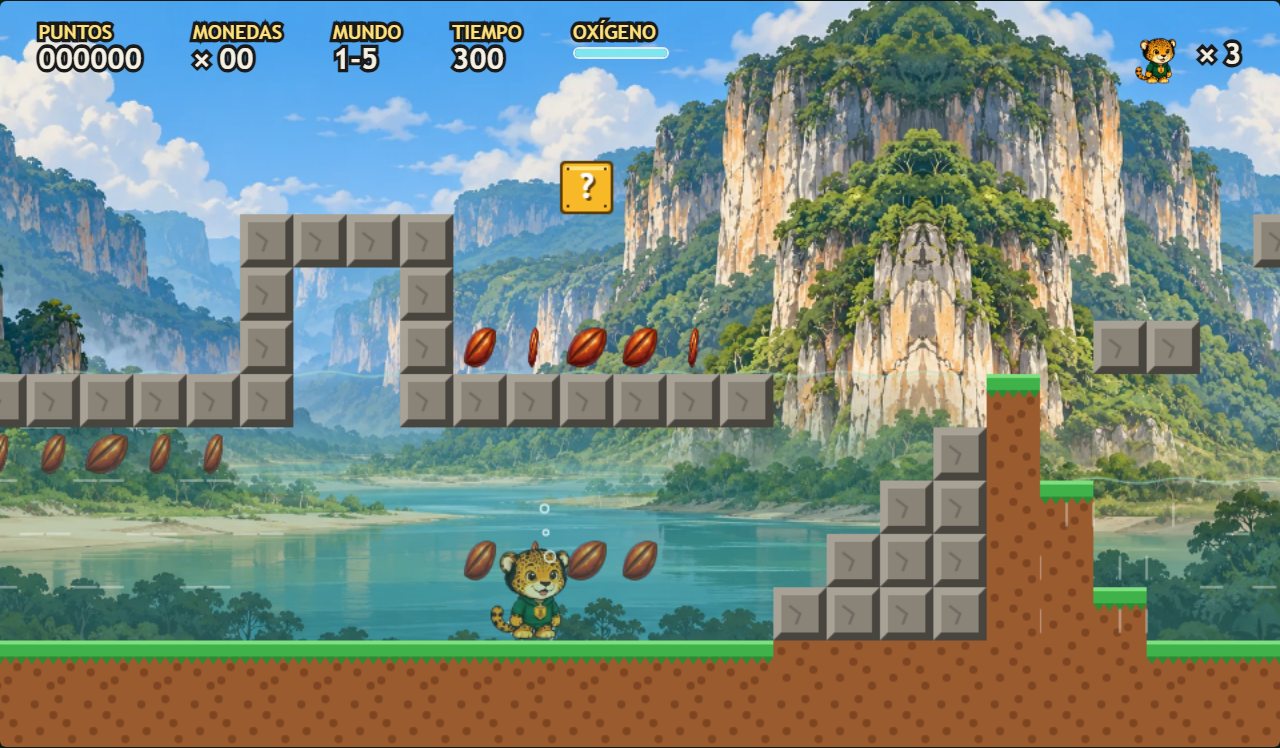
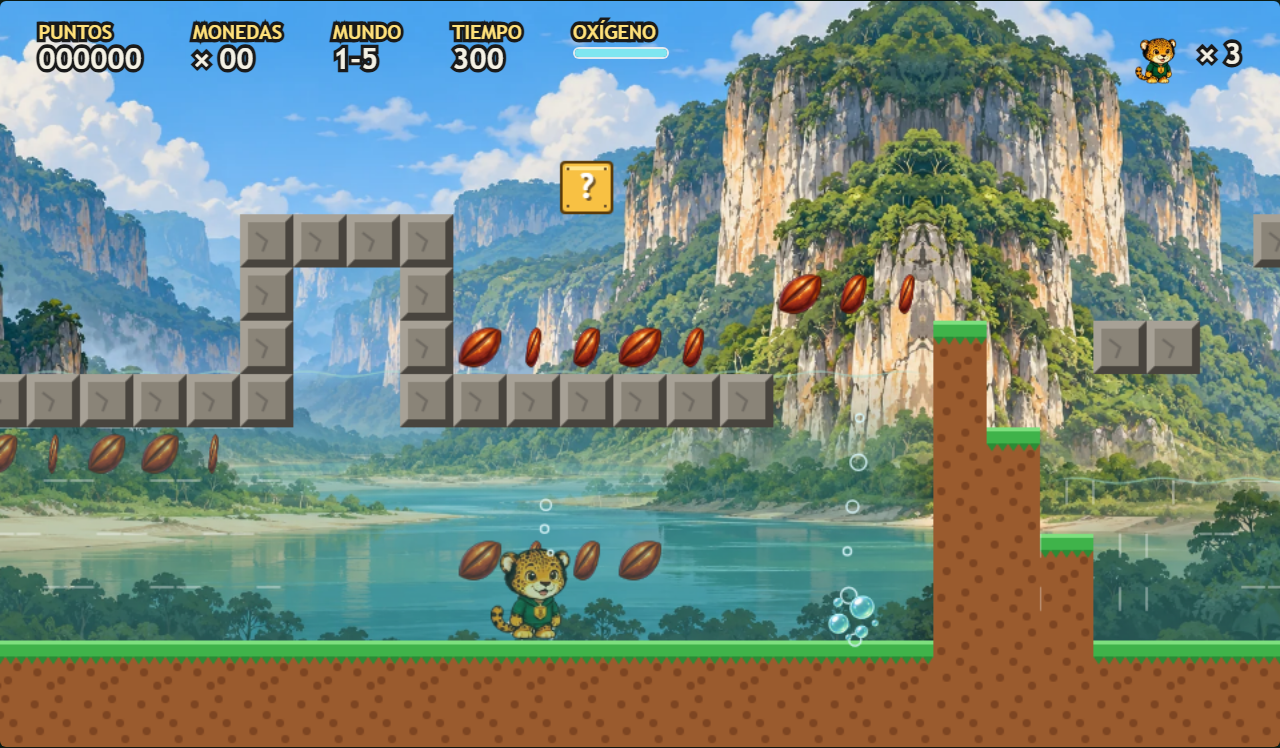
fix: añade salida superior y pared sólida al túnel de Candelaria

diff --git a/src/data/levels/world1/1-5-candelaria.ts b/src/data/levels/world1/1-5-candelaria.ts
@@ -2,21 +2,26 @@ import type { LevelDef, Op } from '../../../engine/level/types';
 import { barracudas, nauyaca, urchin } from '../helpers';
 import { waterBank } from '../waterBanks';
 
-/** Túnel submarino: techo de roca en la fila 7 entre estas columnas (inclusive). */
+/** Túnel submarino: techo de roca en la fila 7, con una salida abierta al final. */
 const TUNNEL_X0 = 97;
-const TUNNEL_X1 = 140;
+const TUNNEL_X1 = 143;
 /** Fila del techo del túnel (también es la superficie del agua). */
 const TUNNEL_CEIL = 7;
-/** El agua continúa tras el techo para subir la escalera sin quedar encerrado. */
-const TUNNEL_EXIT_X = 145;
+/** Hueco de tres bloques para emerger antes de saltar sobre la pared sólida. */
+const EXIT_OPENING_X = 141;
+const EXIT_WALL_X = TUNNEL_X1 + 1;
+const EXIT_WALL_TOP = TUNNEL_CEIL - 1;
 /** Columna izquierda de cada bolsa de aire (2 columnas de ancho). */
 const AIR_POCKETS = [107, 120, 132] as const;
 
 const inPocket = (x: number): boolean => AIR_POCKETS.some((p) => x === p || x === p + 1);
 
-/** Techo del túnel con huecos donde están las bolsas de aire. */
+/** Techo con bolsas de aire cerradas y una abertura final hacia el exterior. */
 const tunnelCeiling = (): Op => {
-  const blocks = Array.from({ length: TUNNEL_X1 - TUNNEL_X0 + 1 }, (_, i) => (inPocket(TUNNEL_X0 + i) ? ' ' : 'X'));
+  const blocks = Array.from({ length: TUNNEL_X1 - TUNNEL_X0 + 1 }, (_, i) => {
+    const x = TUNNEL_X0 + i;
+    return inPocket(x) || x >= EXIT_OPENING_X ? ' ' : 'X';
+  });
   return ['row', TUNNEL_X0, TUNNEL_CEIL, blocks.join('')];
 };
 
@@ -39,12 +44,12 @@ const rockWall = (x: number, y1: number): Op[] =>
  *  46-79     Rápidos: tres tramos de río con troncos (plataformas) y corrientes que
  *            empujan a la derecha (3 → 4 → 4.5 bloques/s); barracudas saltando.
  *  80-91     Orilla de descanso con el punto de control de Toh (columna 84).
- *  92-140    Túnel submarino: se bucea bajo un muro de roca; corrientes que llevan
+ *  92-143    Túnel submarino: se bucea bajo un muro de roca; corrientes que llevan
  *            hacia erizos, contracorriente con barracuda, 3 bolsas de aire y un
  *            respiradero de burbujas (OXYGEN_MAX = 10 s; tramos de ~11 bloques).
  *            Premio oculto: monedas y un `?` sobre el techo del túnel (se vuelve
- *            desde lo alto de la escalera de salida).
- * 141-160    Salida por la cascada: escalera, poza al pie de la cascada y troncos
+ *            desde la abertura de salida).
+ * 141-160    Salida superior: hueco de luz antes de una pared sólida, poza y troncos
  *            altos con un corazón de jade.
  * 161-199    Recta final hasta la bandera y el templo.
  */
@@ -78,7 +83,7 @@ export const LEVEL_1_5: LevelDef = {
     ['row', 86, 8, 'B?M'], ['row', 89, 5, '?'], ['row', 90, 3, 'B'], ['coins', 87, 4, 3],
 
     // --- Túnel submarino ---
-    ['water', 92, TUNNEL_EXIT_X - 1, TUNNEL_CEIL],
+    ['water', 92, TUNNEL_X1, TUNNEL_CEIL],
     ['current', 92, 95, TUNNEL_CEIL, 9, 0, 2], // remolino que ayuda a bucear
     ...rockWall(96, TUNNEL_CEIL - 1),
     tunnelCeiling(),
@@ -93,8 +98,9 @@ export const LEVEL_1_5: LevelDef = {
     // Premio oculto sobre el techo del túnel.
     ['coins', 135, 6, 5], ['row', 137, 3, '?'],
 
-    // --- Salida por la cascada ---
-    ['stairs', 141, 5, 1],
+    // La pared cierra el agua; el hueco superior deja emerger y saltar por encima.
+    ['coins', EXIT_OPENING_X, 5, 3], ['bubbles', 142, 11],
+    // --- Poza de la cascada ---
     ['water', 146, 151, 9], ['current', 146, 148, 9, 11, 0, 3], // la cascada hunde
     ['current', 149, 151, 9, 11, 1.5, 0], // y luego arrastra hacia la salida
     ['plat', 147, 6, 2], ['plat', 150, 4, 2], ['row', 151, 1, 'L'],
@@ -112,6 +118,6 @@ export const LEVEL_1_5: LevelDef = {
     ...waterBank(45, 11, 1), ...waterBank(53, 11, -1),
     ...waterBank(56, 11, 1), ...waterBank(65, 11, -1),
     ...waterBank(69, 11, 1), ...waterBank(80, 11, -1),
-    ...waterBank(91, 7, 1), ...waterBank(TUNNEL_EXIT_X, TUNNEL_CEIL, -1), ...waterBank(152, 9, -1),
+    ...waterBank(91, 7, 1), ...waterBank(EXIT_WALL_X, EXIT_WALL_TOP, -1), ...waterBank(152, 9, -1),
   ],
 };

diff --git a/src/engine/World1Water.test.ts b/src/engine/World1Water.test.ts
@@ -45,13 +45,32 @@ describe('salidas del agua del Mundo 1', () => {
     },
   );
 
-  it.each([132.1, 136, 139.1, 140.1])('1-5 permite salir del túnel desde %s hacia la escalera', x => {
+  it.each([132.1, 136, 139.1, 140.1, 142.1])('1-5 permite salir del túnel desde %s por el hueco superior', x => {
     const world = submerged('1-5', x, GROUND);
     const p = world.player;
-    const escaped = () => p.x >= 145 * T && p.onGround && !p.swimming;
+    let emergedThroughOpening = false;
+    const escaped = () => {
+      if (p.x >= 141 * T && p.x < 144 * T && p.y + p.h <= 6 * T) emergedThroughOpening = true;
+      return p.x >= 144 * T && p.onGround && !p.swimming;
+    };
     swimRightUntil(world, escaped);
     expect(world.phase).toBe('play');
     expect(escaped(), `sin salida en ${p.x / T},${p.y / T}`).toBe(true);
+    expect(emergedThroughOpening).toBe(true);
     expect(p.oxygen).toBeGreaterThan(0);
+  });
+
+  it('1-5 contiene el agua con una pared y deja libre el hueco de arriba', () => {
+    const world = submerged('1-5', 142.1, GROUND);
+    for (let y = 6; y < ROWS; y++) expect(world.solid(144, y)).toBe(true);
+    for (const x of [141, 142, 143]) {
+      for (let y = 0; y < GROUND; y++) expect(world.solid(x, y)).toBe(false);
+    }
+    const initialY = world.player.y;
+    world.input.press('right');
+    for (let step = 0; step < 2 / STEP; step++) world.update(STEP);
+    expect(world.phase).toBe('play');
+    expect(Math.floor((world.player.x + world.player.w - 1) / T)).toBeLessThan(144);
+    expect(world.player.y).toBeCloseTo(initialY);
   });
 });

diff --git a/imagenes/verify_world1_water.py b/imagenes/verify_world1_water.py
@@ -82,6 +82,13 @@ with sync_playwright() as playwright:
           w.camX=p.x-380;w.phaseT=3;
         }""", {'x': x, 'feet': feet})
         capture(f'{level}-antes-de-salir')
+        if level == '1-5':
+            for _ in range(240):
+                surfaced = page.evaluate("qa.advance(1/60,'escape')")
+                if 141 <= surfaced['x'] < 144 and surfaced['y'] + 66 / 40 <= 7:
+                    break
+            assert 141 <= surfaced['x'] < 144 and surfaced['y'] + 66 / 40 <= 7, surfaced
+            capture('1-5-hueco-superior')
         result = page.evaluate("qa.advance(3,'escape')")
         reports.append({'prueba': 'salida', **result})
         capture(f'{level}-salida')

diff --git a/AGENTS.md b/AGENTS.md
@@ -711,7 +711,7 @@ Cada fase termina con build y pruebas en verde, revisión visual y un commit con
 
 ### Transiciones suaves del agua
 
-- El Triunfo (`1-4`) permite recuperarse al caer bajo la pasarela: el agua llega a la fila 10, las orillas tienen peldaños y el último tramo deja espacio para emerger. El saraguato conserva una plataforma firme en la columna 175. En Candelaria (`1-5`), el agua del túnel continúa hasta la columna 144 y la orilla queda en 145, después del techo, para subir por la escalera sin quedar encerrado. `engine/World1Water.test.ts` comprueba las 22 columnas bajo la pasarela y cuatro posiciones de salida del túnel con colisiones, cámara, corrientes y oxígeno activos. `python imagenes/verify_world1_water.py` revisa las salidas y recorre ambos niveles hasta el checkpoint y la bandera en Chromium con protección de contacto; capturas y resultados en `imagenes/verificacion/mundo1-agua/`.
+- El Triunfo (`1-4`) permite recuperarse al caer bajo la pasarela: el agua llega a la fila 10, las orillas tienen peldaños y el último tramo deja espacio para emerger. El saraguato conserva una plataforma firme en la columna 175. En Candelaria (`1-5`), el agua del túnel termina en 143 contra una pared maciza en 144 que llega a la fila 6. Se sale por el hueco superior de las columnas 141–143 y se salta sobre la pared; hay burbujas al pie del hueco. `engine/World1Water.test.ts` comprueba las 22 columnas bajo la pasarela, cinco posiciones de salida del túnel y el cierre lateral con colisiones, cámara, corrientes y oxígeno activos. `python imagenes/verify_world1_water.py` revisa las salidas y recorre ambos niveles hasta el checkpoint y la bandera en Chromium con protección de contacto; capturas y resultados en `imagenes/verificacion/mundo1-agua/`.
 
 - Las zonas navegables terminan junto a bloques macizos desde la superficie hasta el fondo, o continúan en otra zona de agua. `data/levels/waterBanks.ts` genera orillas con suelo del bioma y peldaños de un máximo de dos bloques hacia tierra. Se corrigieron trece niveles; Campeche ya tenía sus límites cerrados. `levels.test.ts` valida todos los bordes laterales de la campaña para impedir nuevos cortes de agua en el aire.
 - `WaterSurfaceRenderer` recorta el líquido contra los bloques sólidos de la cuadrícula. Los zócalos de suelo de las arenas de Kaimán y Sargazo sobreviven a `openExit`, que elimina únicamente el muro de piedra `X`; contienen el agua también tras la crecida y la derrota del jefe. `engine/WaterBanks.test.ts` comprueba esas salidas, los checkpoints secos y el muelle accesible de Playa del Carmen.
